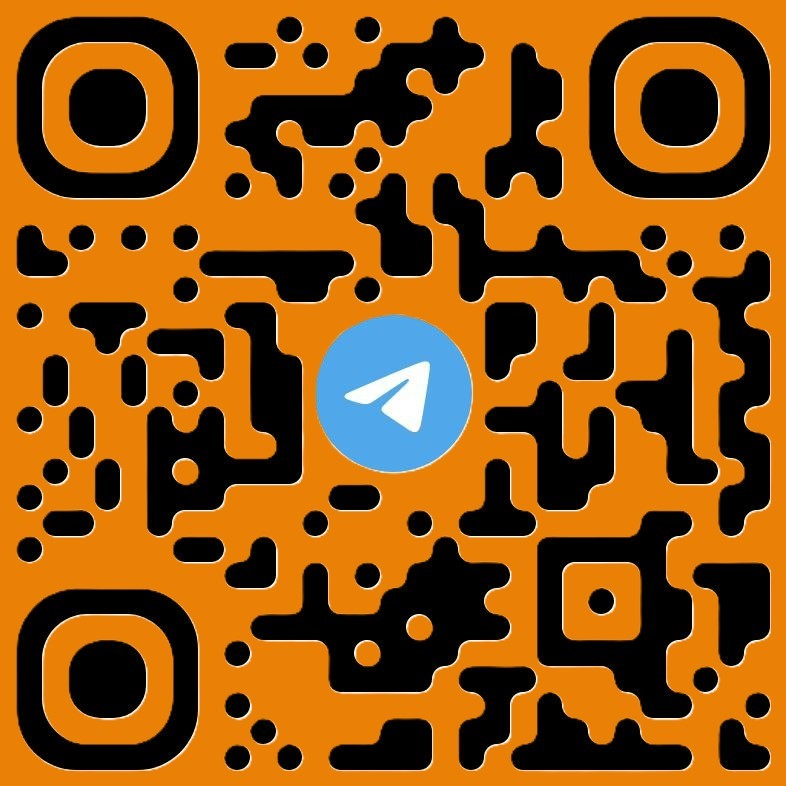
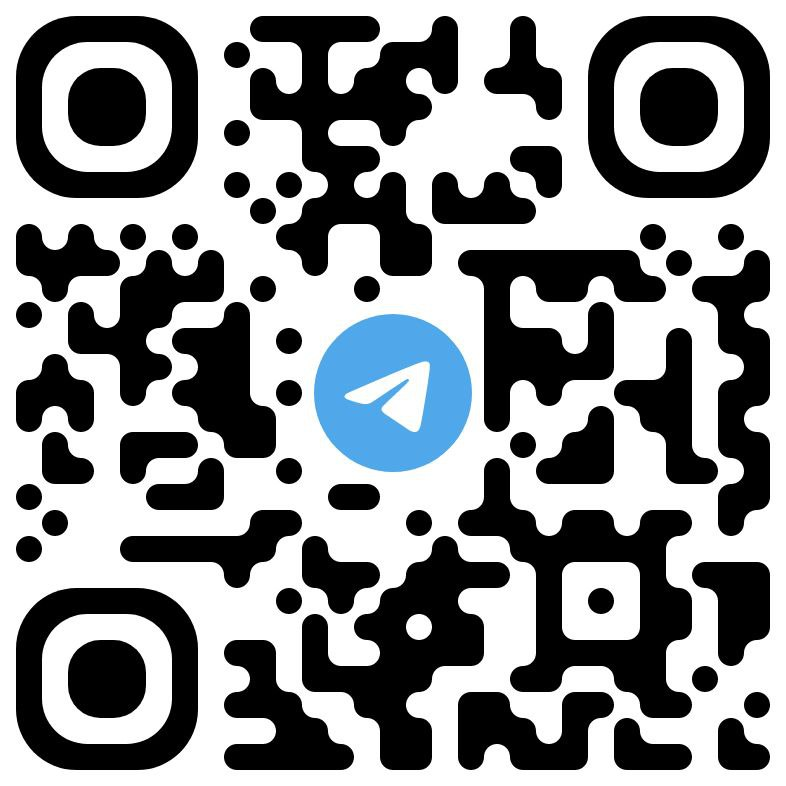
vibr

diff --git a/css/home.css b/css/home.css
@@ -53,7 +53,6 @@ body {
 } */
 
 
-
 input {
 	outline: none;
 	border: none;
@@ -252,7 +251,6 @@ button {
 .qrcode h2 {
 	color: #c0c0c0;
 	text-align: center;
-	font-family: Inter;
 	font-size: 34px;
 	font-style: normal;
 	font-weight: 700;
@@ -280,7 +278,6 @@ button {
 	margin: 0 auto;
 	padding: 5px;
 	border-radius: 15px;
-	border: 4px dashed #eb8006;
 }
 
 #clickableDiv {

diff --git a/index.html b/index.html
@@ -106,7 +106,7 @@
                     </div>
                 </div>
             </div>
-            <button class="tap">
+            <button class="tap" id="tap">
                 <div class="container">
                     <div class="tap__chick" id="clickableDiv">
                         <img class="tap__chick-img" id="clickableImg" src="./images/chick.png" alt="">

diff --git a/js/main.js b/js/main.js
@@ -322,3 +322,8 @@ document.addEventListener('DOMContentLoaded', function () {
 	}
 })
 
+document.getElementById('tap').addEventListener('click', function () {
+		navigator.vibrate(200)
+})
+
+
